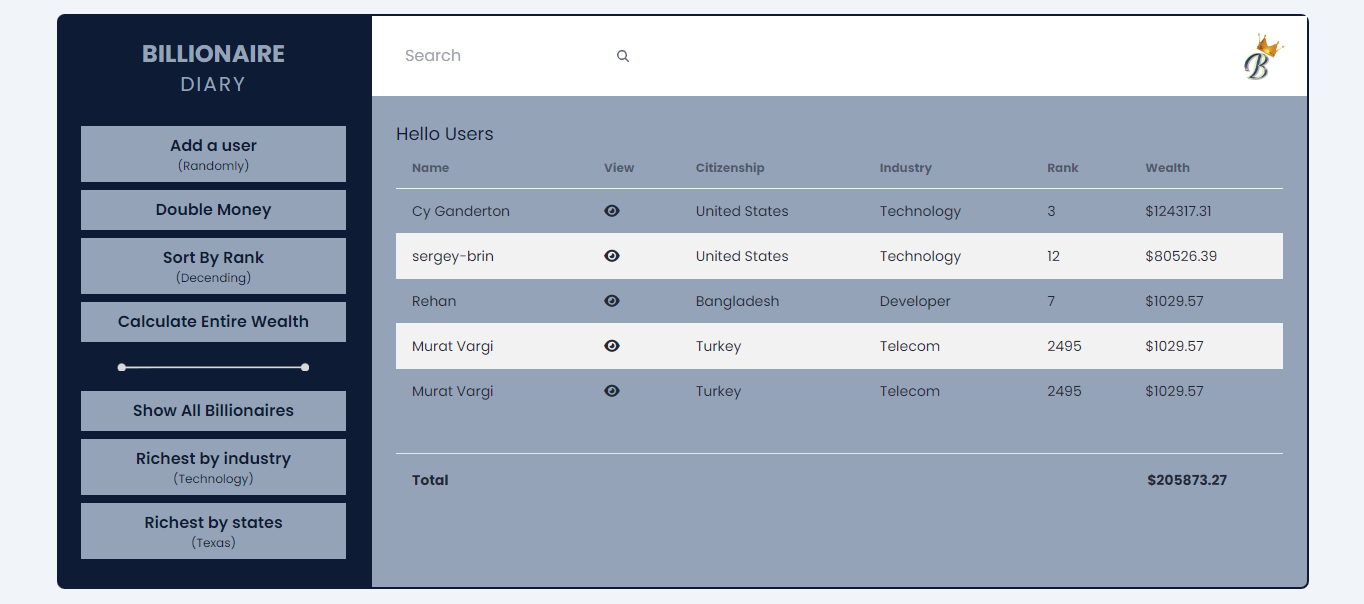
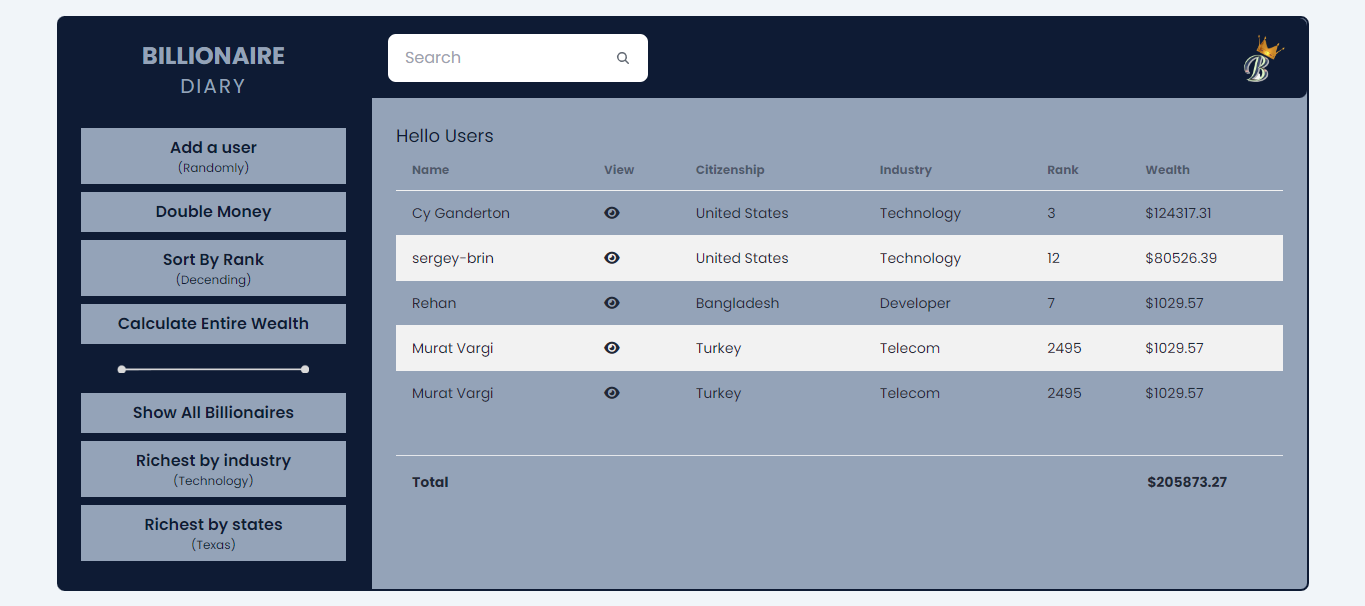
Update readme file

diff --git a/index.html b/index.html
@@ -68,7 +68,7 @@
 
                 <!-- Content  -->
                 <div class="lg:w-9/12 bg-slate-400 rounded-r-lg border-2 border-[#0E1B34]">
-                    <div class="bg-white">
+                    <div class="bg-[#0E1B34] rounded-r-lg">
                         <div class="flex justify-between p-4">
                             <label class="input focus:border-none flex items-center gap-2 ">
                                 <input type="text" class="grow" placeholder="Search" />

diff --git a/readme.md b/readme.md
@@ -5,7 +5,7 @@
 
 
 ## Project Live Link:
-<p align="center"> <a href="#" >Click Here to Visit Live Project</a> </p>
+<p align="center"> <a href="https://rehan606.github.io/Billionaires-Diary/" >Click Here to Visit Live Project</a> </p>
 
 ## Project Layout:
 <p align="center"><img src="images/Screenshot_8.png" alt=""></p>
